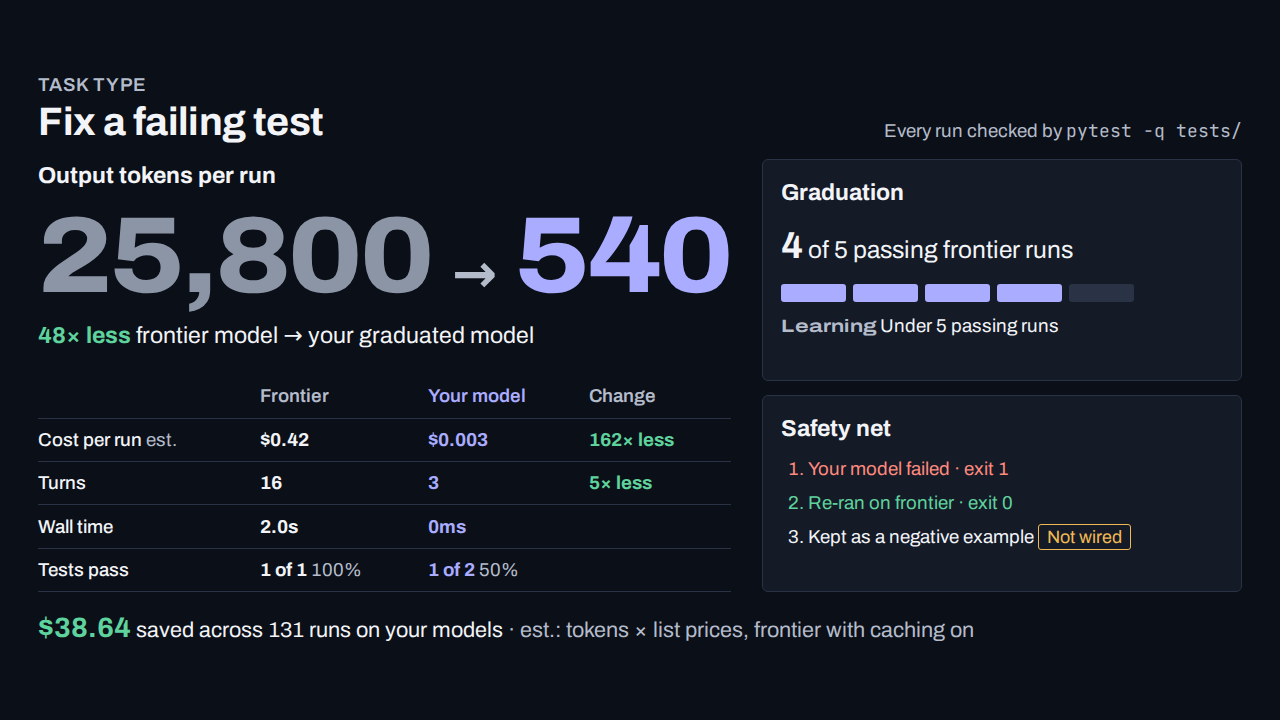
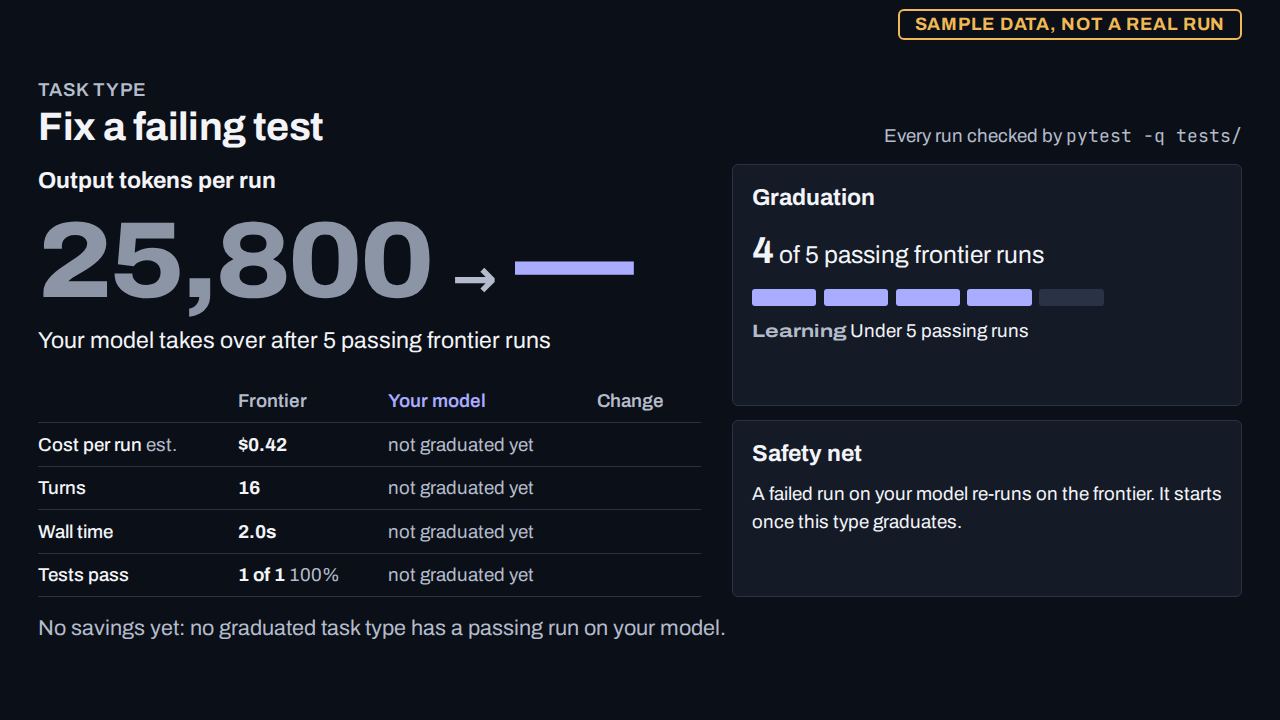
Showcase: 'your model' and savings only for a graduated type's real passing runs; sample data labelled (#87)
The showcase filled 'Your model' from any owned ledger row, so the
fixture's Learning type showed 25,800 -> 540, '48x less' and 0 ms.
Now the owned column is 'not graduated yet' unless the type is
GRADUATED, and counts only runs its model served (not a fallback to
the frontier model); a change is claimed only once one passed. The
safety net shows escalations for graduated types only; the savings
footer needs a graduated type with a passing owned run in the ledger.

Fixture numbers carry 'Sample data, not a real run' on every view:
?state=/fixtures/... and routers from 'graduate up --demo' (cli.py
sets GRADUATE_SAMPLE; graduate/router/sample.py serves /api/sample).
make screens fails on owned numbers for a non-graduated type or a
fixture view without the label.

Closes #87

diff --git a/ui/present.js b/ui/present.js
@@ -35,15 +35,21 @@ function viewShow(a) {
   if (!t) return `<h1>No task types yet</h1><p class="lede">Run a task with <code>graduate run</code> and it shows up here.</p>`;
   const rows = S.ledger.filter((r) => r.task_type === k);
   const f = arm(rows.filter((r) => r.routed_to === "frontier" && !r.escalated_from));
-  const o = arm(rows.filter((r) => r.routed_to === "owned"));
-  // Until owned serving (#37) is wired, the owned route falls back to the frontier: say so, don't claim a win.
-  const fellBack = o && rows.some((r) => r.routed_to === "owned" && r.model === (rows.find((x) => x.routed_to === "frontier") || {}).model);
+  // "Your model" only for a GRADUATED type with runs its model really served (not a fallback to the frontier
+  // model), and a change is claimed only once one of them passed (#87).
+  const owned = rows.filter((r) => r.routed_to === "owned");
+  const served = owned.filter((r) => r.model !== (rows.find((x) => x.routed_to === "frontier") || {}).model);
+  const fellBack = owned.length > served.length;
+  const o = t.state === "GRADUATED" ? arm(served) : null, won = o && o.passed > 0;
   const n = N(), grad = t.state === "GRADUATED" || t.state === "PROBATION";
-  const none = `<span class="muted">no runs yet</span>`;
+  // The savings headline needs a GRADUATED type whose own model passed a run in this ledger.
+  const savedReal = S.ledger.some((r) => r.routed_to === "owned" && r.exit_code === 0 && (tasks()[r.task_type] || {}).state === "GRADUATED"
+    && r.model !== (S.ledger.find((x) => x.task_type === r.task_type && x.routed_to === "frontier") || {}).model);
+  const none = `<span class="muted">${t.state === "GRADUATED" ? "no runs yet" : "not graduated yet"}</span>`;
   const cell = (x, fmt) => x ? fmt(x) : none;
   const row = (label, key, fmt, delta = true) => `<tr><th scope="row">${label}</th>
-    <td data-qa="${key}-frontier">${cell(f, fmt)}</td><td class="own" data-qa="${key}-owned">${cell(o, fmt)}</td>
-    <td class="chg">${delta && f && o ? change(f[key], o[key]) : ""}</td></tr>`;
+    <td data-qa="${key}-frontier">${f ? fmt(f) : `<span class="muted">no runs yet</span>`}</td><td class="own" data-qa="${key}-owned">${cell(o, fmt)}</td>
+    <td class="chg">${delta && f && won ? change(f[key], o[key]) : ""}</td></tr>`;
   const pass = (x) => `${x.passed} of ${x.n} <span class="muted">${Math.round((x.passed / x.n) * 100)}%</span>`;
 
   const esc_ = [...rows].reverse().find((r) => r.escalated_from);
@@ -62,7 +68,10 @@ function viewShow(a) {
   <section class="show-hero" aria-labelledby="hero-h">
     <h2 id="hero-h">Output tokens per run</h2>
     <p class="hero"><span class="f" data-qa="out-frontier">${f ? Math.round(f.out).toLocaleString() : "—"}</span><span class="arrow" aria-label="to">→</span><span class="o" data-qa="out-owned">${o ? Math.round(o.out).toLocaleString() : "—"}</span></p>
-    <p class="hero-sub">${f && o ? fellBack ? `<span class="badge">Not wired</span> owned serving: “your model” runs fell back to the frontier model` : `<b data-qa="out-change">${change(f.out, o.out)}</b> frontier model → your graduated model` : `Your model takes over after ${n} passing frontier runs`}</p>
+    <p class="hero-sub">${f && won ? `<b data-qa="out-change">${change(f.out, o.out)}</b> frontier model → your graduated model`
+      : o ? `Your model hasn't passed a run yet: its ${o.n} ${o.n === 1 ? "run" : "runs"} failed and went back to the frontier`
+      : fellBack ? `<span class="badge">Not wired</span> owned serving: “your model” runs fell back to the frontier model`
+      : t.state === "GRADUATED" ? "No runs on your model yet" : `Your model takes over after ${n} passing frontier runs`}</p>
     <table class="show-cmp">
       <thead><tr><th></th><th>Frontier</th><th class="own">Your model</th><th>Change</th></tr></thead>
       <tbody>
@@ -82,14 +91,14 @@ function viewShow(a) {
   </section>
   <section class="show-esc sheet" aria-labelledby="esc-h">
     <h2 id="esc-h">Safety net</h2>
-    ${esc_ ? `<ol class="steps">
+    ${esc_ && grad ? `<ol class="steps">
       <li class="fail">Your model failed · exit ${failed ? failed.exit_code : "≠0"}</li>
       <li class="pass">Re-ran on frontier · exit ${esc_.exit_code}</li>
       <li>${failed && failed.forced_failure ? "Forced failure (GRADUATE_FORCE_FAIL): not kept for training" : `Kept as a negative example ${negWired ? "" : `<span class="badge">Not wired</span>`}`}</li>
-    </ol>` : `<p>A failed run on your model re-runs on the frontier. No escalations yet.</p>`}
+    </ol>` : `<p>A failed run on your model re-runs on the frontier.${grad ? " No escalations yet." : " It starts once this type graduates."}</p>`}
     ${grad ? `<p class="muted">${t.failures_since_graduation} of ${S.config.fail_limit} failures before probation</p>` : ""}
   </section>
-  <footer class="show-foot"><b data-qa="saved">${money(S.totals.saved_usd)}</b> saved across ${S.totals.owned_runs} runs on your models <span class="muted">· est.: tokens × list prices, frontier with caching on</span></footer>
+  <footer class="show-foot">${savedReal ? `<b data-qa="saved">${money(S.totals.saved_usd)}</b> saved across ${S.totals.owned_runs} runs on your models <span class="muted">· est.: tokens × list prices, frontier with caching on</span>` : `<span class="muted" data-qa="saved">No savings yet: no graduated task type has a passing run on your model.</span>`}</footer>
 </div>`;
 }
 
@@ -110,6 +119,9 @@ function viewStage() {
 }
 
 const root = document.documentElement;
+// Fixture state (?state=…/fixtures/…, or a router started by `graduate up --demo`): every number on screen is sample data (#87).
+if (/\/fixtures\//.test(new URLSearchParams(location.search).get("state"))) root.classList.add("sample");
+else fetch("/api/sample").then((r) => r.json()).then((j) => j.sample && root.classList.add("sample")).catch(() => {});
 const stage = () => "#/" + location.hash.slice(2).split("/")[0];
 if (new URLSearchParams(location.search).has("present")) root.classList.add("present");
 if (root.classList.contains("present") && !location.hash) location.hash = STAGES[0];

diff --git a/ui/projector.css b/ui/projector.css
@@ -115,3 +115,10 @@ html.present main:has(.stage-d) { padding: calc(var(--u) * 1.5) 0; }
 .stage-d figure.arch svg { width: min(100%, var(--u) * 70 * 1030 / 530); min-width: 0; margin: 0 auto; }
 .stage-d .legend { margin: 0; color: var(--muted); }
 html.present pre.stage-term { height: auto; font-size: calc(var(--u) * 2.6); padding: calc(var(--u) * 1) calc(var(--u) * 1.6); }
+
+/* Sample data (#87): fixture numbers are labelled on every view. */
+html.sample body::after {
+  content: "Sample data, not a real run"; position: fixed; right: 3vw; top: 1.2vh; z-index: 9; padding: 0.2em 0.8em;
+  border: 2px solid var(--warn); border-radius: 6px; color: var(--warn); background: var(--paper);
+  font: 700 calc(var(--u) * 2.5) "Archivo", sans-serif; letter-spacing: 0.04em; text-transform: uppercase;
+}

diff --git a/scripts/screens.py b/scripts/screens.py
@@ -3,7 +3,8 @@
 Serves the repo root on a free port, opens ui/index.html?state=<fixture>&bench=fixtures/bench.example.json in Chromium (Playwright) and saves
 docs/screens/<fixture>-<view>-<size>.png. Fails on console errors, failed requests, horizontal overflow, a view
 cut off at the bottom, text under innerHeight/45 (16px at 720p, the r2 roadmap's floor), on the presenter showcase
-a wrong 5-of-5 count, and on presenter Under the hood a ticker without the latest trace event.
+a wrong 5-of-5 count or owned numbers for a type that isn't graduated, on any view a missing sample-data label,
+and on presenter Under the hood a ticker without the latest trace event.
 Offline; needs `pip install playwright && playwright install chromium`.
 """
 
@@ -82,6 +83,8 @@ def main():
                         t = next(t for t in state["registry"]["task_types"].values() if t["state"] == k)
                         want = str(min(t["verified_runs"], state["config"]["n"]))
                         problems += [f"verified {page.inner_text('[data-qa=verified]')} != {want}"] * (page.inner_text("[data-qa=verified]") != want)
+                        problems += ["owned numbers for a type that isn't graduated"] * (k != "GRADUATED" and page.query_selector("[data-qa=out-change]") is not None)
+                    problems += ["fixture numbers without the sample-data label"] * (not page.evaluate("document.documentElement.classList.contains('sample')"))
                     if view == "system-present":
                         who = state["trace"][-1]["who"]
                         problems += [f"ticker lacks the latest call {who!r}"] * (who not in page.inner_text("[data-qa=ticker]"))

diff --git a/tests/test_ui.py b/tests/test_ui.py
@@ -43,3 +43,9 @@ def test_router_serves_the_latest_bench_for_compare(router, workdir):
     (workdir / "bench" / "latest").symlink_to("bench-1")  # how graduate bench points at its newest run
     r = router("GET", "/bench/latest/results.json")
     assert r.status_code == 200 and r.json()["arms"]["owned"]["output_tokens"] == 540
+
+
+def test_demo_router_says_its_numbers_are_sample_data(router, monkeypatch):
+    assert router("GET", "/api/sample").json() == {"sample": False}
+    monkeypatch.setenv("GRADUATE_SAMPLE", "1")  # what `graduate up --demo` sets
+    assert router("GET", "/api/sample").json() == {"sample": True}

diff --git a/graduate/cli.py b/graduate/cli.py
@@ -197,6 +197,7 @@ def up():
         sys.exit("port 4141 is taken: stop the other `graduate up` or `make dev` (find it: lsof -i :4141)")
     if a.demo:
         os.chdir(_demo_dir())
+        os.environ["GRADUATE_SAMPLE"] = "1"  # the dashboard labels fixture numbers as sample data (#87)
     elif not (os.environ.get("OPENAI_API_KEY") or _dotenv().get("OPENAI_API_KEY")):
         sys.exit(
             "no OPENAI_API_KEY here: run `graduate init` first, or `graduate up --demo`"

diff --git a/graduate/router/sample.py b/graduate/router/sample.py
@@ -1,0 +1,11 @@
+"""GET /api/sample (#87): true when this router serves fixture state (`graduate up --demo`), so the dashboard labels
+every number as sample data."""
+
+import os
+
+from graduate.router.app import app
+
+
+@app.get("/api/sample")
+def sample():
+    return {"sample": os.environ.get("GRADUATE_SAMPLE") == "1"}
